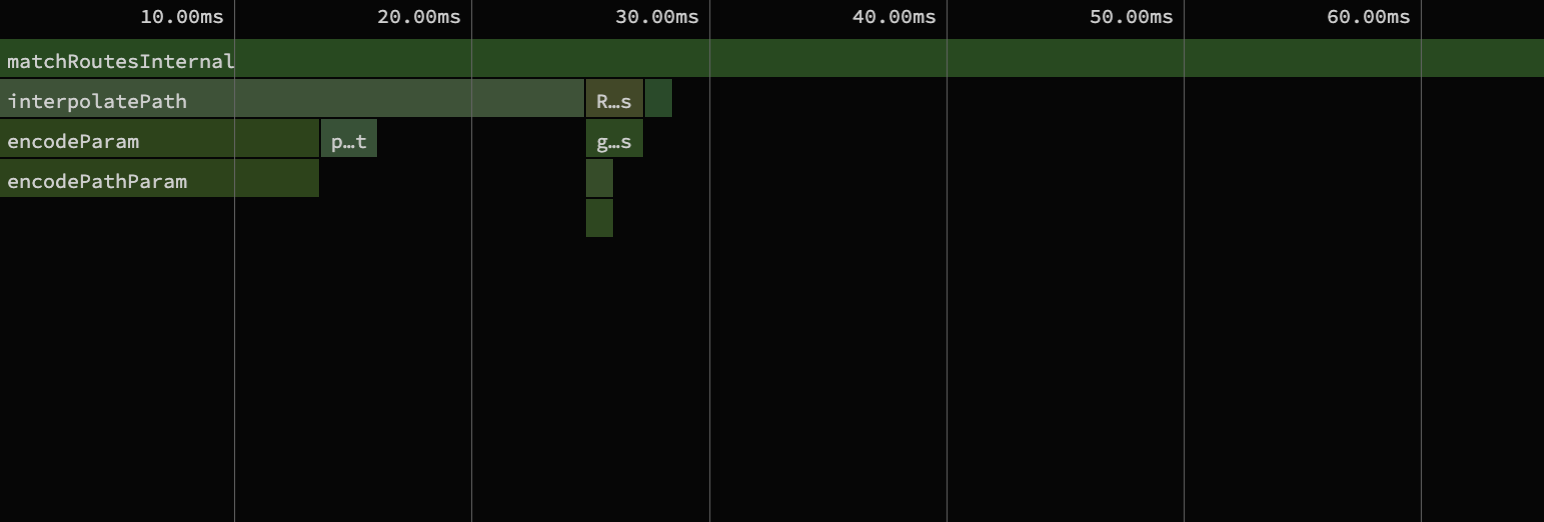
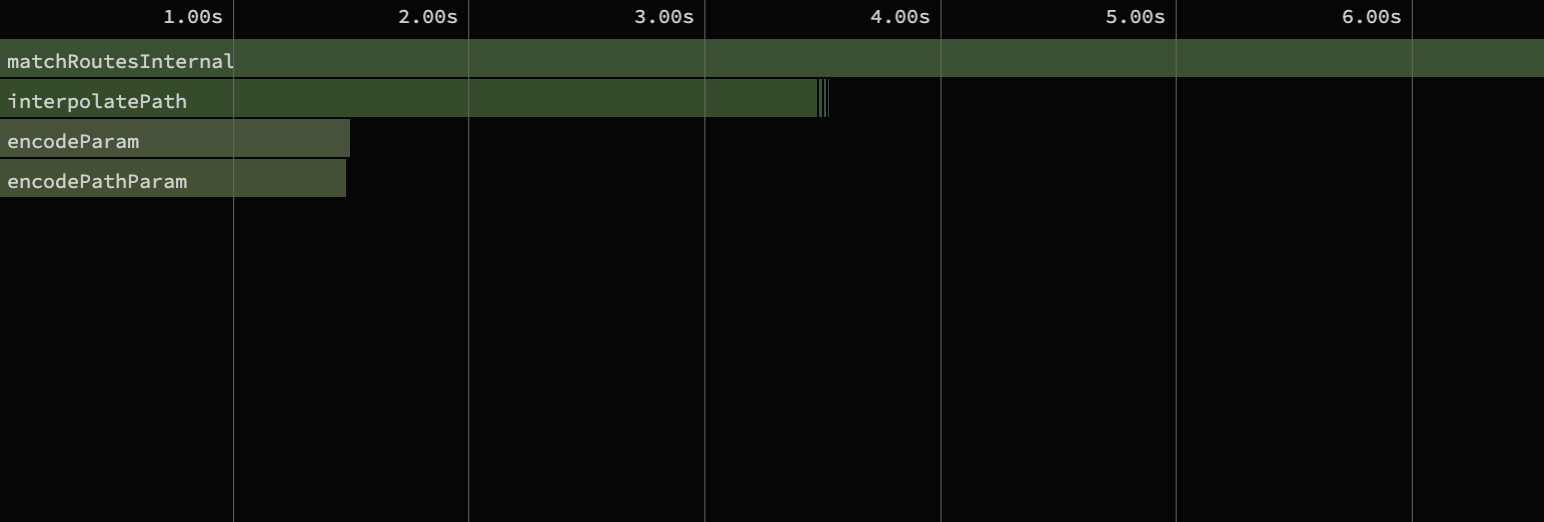
better image & desc for server-only fast path

diff --git a/src/blog/tanstack-start-ssr-performance-600-percent.md b/src/blog/tanstack-start-ssr-performance-600-percent.md
@@ -261,12 +261,25 @@ See: [#4648](https://github.com/TanStack/router/pull/4648), [#6505](https://gith
 
 Taking the example of the `matchRoutesInternal` method, we can see that its children's total CPU time was reduced by ~25%.
 
-<!-- TODO: these images aren't good. They don't really show an improvement that came from a server-only fast path. -->
+<figure>
+<img
+  src="/blog-assets/tanstack-start-ssr-performance-600-percent/interpolate-before.png"
+  alt="CPU profiling of interpolatePath before the changes"
+>
+<figcaption>
+<b>Before:</b> The <code>interpolatePath</code> function spends >1s using the generic <code>parseSegment</code> function.
+</figcaption>
+</figure>
 
-|        |                                                                                                                                        |
-| ------ | -------------------------------------------------------------------------------------------------------------------------------------- |
-| Before | ![CPU profiling of interpolatePath before the changes](/blog-assets/tanstack-start-ssr-performance-600-percent/interpolate-before.png) |
-| After  | ![CPU profiling of interpolatePath after the changes](/blog-assets/tanstack-start-ssr-performance-600-percent/interpolate-after.png)   |
+<figure>
+<img
+  src="/blog-assets/tanstack-start-ssr-performance-600-percent/interpolate-after.png"
+  alt="CPU profiling of interpolatePath after the changes"
+>
+<figcaption>
+<b>After:</b> The <code>interpolatePath</code> function now uses the server-only fast path, skipping <code>parseSegment</code> entirely.
+</figcaption>
+</figure>
 
 ## Finding 4: `delete` can be expensive
 
